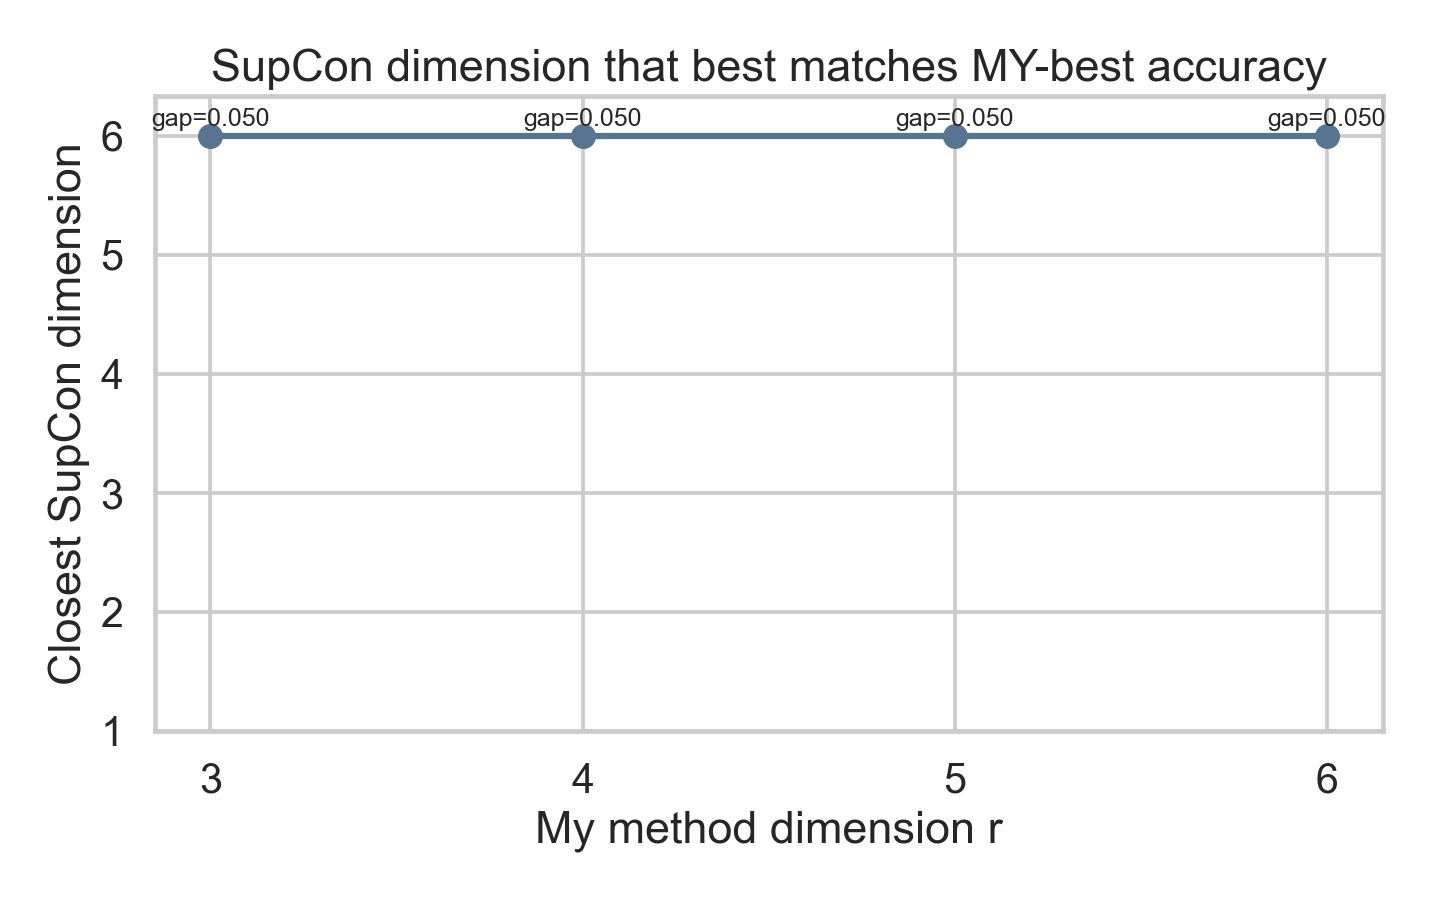
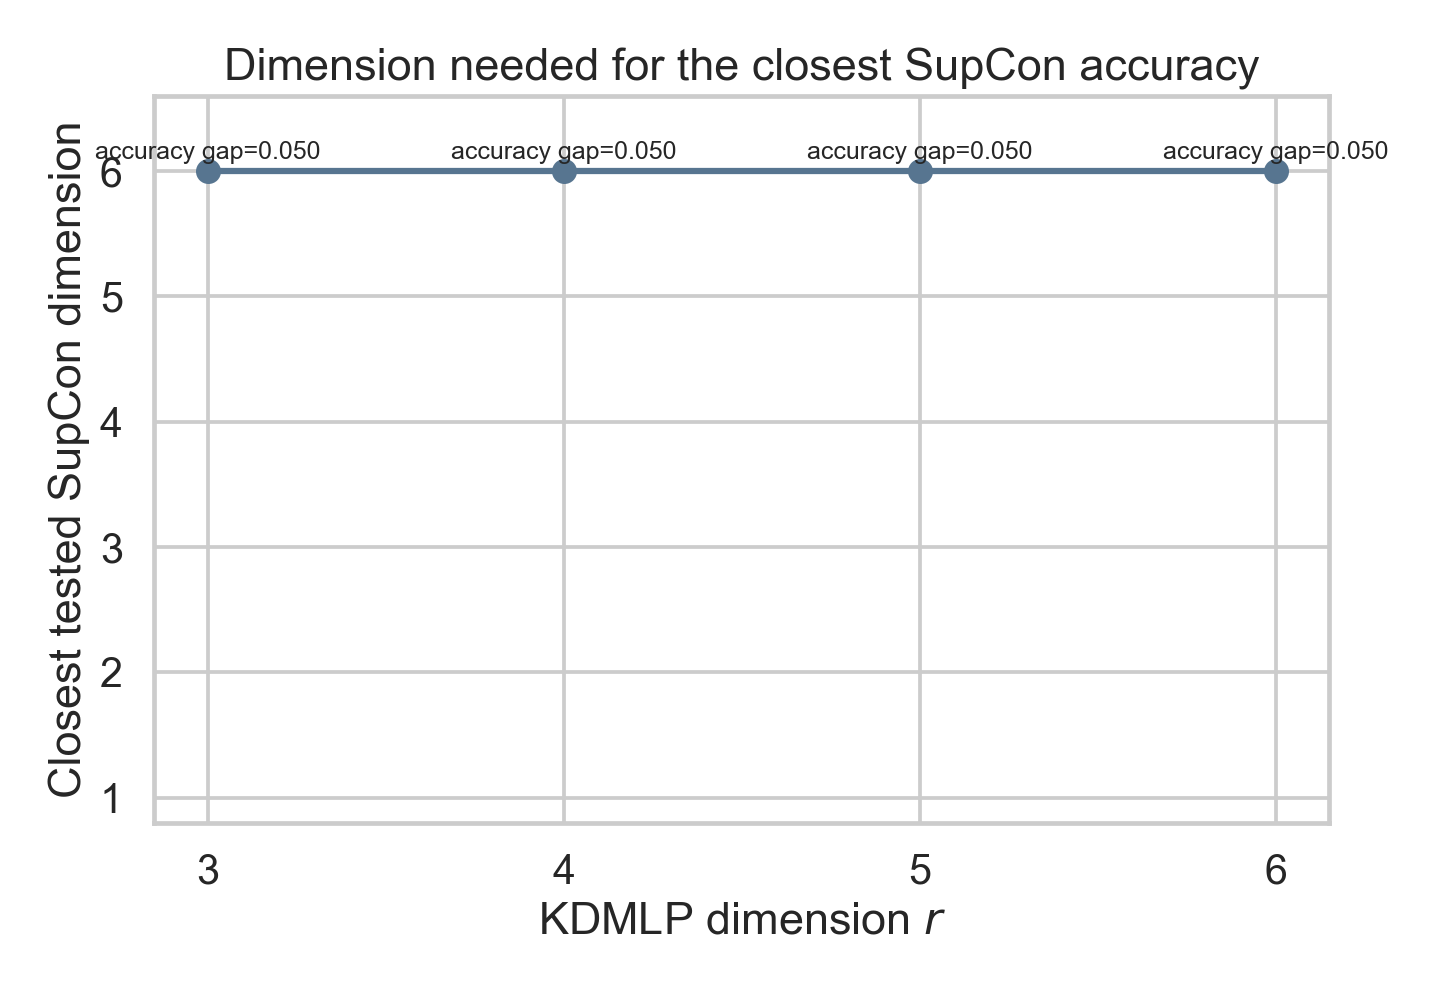
Document Gaussian and OpenML SupCon comparisons

diff --git a/simulations/supcon_openml_workspace/openml_supcon_vs_ours_same_r.py b/simulations/supcon_openml_workspace/openml_supcon_vs_ours_same_r.py
@@ -256,12 +256,15 @@ def run_openml_same_r():
         .mean()
         .sort_values("r")
     )
-    ax.plot(mean_curve["r"], mean_curve["my_best_acc"], marker="o", linewidth=2.5, color="#43aa8b", label="MY-best")
+    ax.plot(mean_curve["r"], mean_curve["my_best_acc"], marker="o", linewidth=2.5, color="#43aa8b", label="Best KDMLP")
     ax.plot(mean_curve["r"], mean_curve["supcon_acc"], marker="o", linewidth=2.5, color="#f94144", label="SupCon")
-    ax.plot(mean_curve["r"], mean_curve["kfda_acc"], marker="o", linewidth=2.5, linestyle="--", color="#577590", label="KFDA")
-    ax.set_xlabel("Dimension r")
-    ax.set_ylabel("Mean accuracy across OpenML datasets")
-    ax.set_title("OpenML same-r comparison (KDMLP vs SupCon vs KFDA)")
+    ax.plot(mean_curve["r"], mean_curve["kfda_acc"], marker="o", linewidth=2.5, linestyle="--", color="#577590", label="KFDA (rank 1)")
+    ax.set_xlabel("Reduced dimension r")
+    ax.set_ylabel("Mean test accuracy")
+    ax.set_title("OpenML mean accuracy across 13 datasets")
+    ax.set_xscale("symlog", linthresh=6)
+    ax.set_xticks(R_VALUES)
+    ax.get_xaxis().set_major_formatter(plt.ScalarFormatter())
     ax.legend()
     plt.tight_layout()
     fig.savefig(OUT / "openml_same_r_mean_curve.png", dpi=180)
@@ -273,12 +276,47 @@ def run_openml_same_r():
         var_name="method",
         value_name="acc",
     )
-    fig, ax = plt.subplots(figsize=(13, 7))
-    sns.barplot(data=plot32, x="dataset", y="acc", hue="method", ax=ax)
-    ax.set_title("OpenML: KDMLP vs SupCon vs KFDA at r=32 or 64")
-    ax.tick_params(axis="x", rotation=45)
+    plot32["method"] = plot32["method"].map(
+        {"my_best_acc": "Best KDMLP", "supcon_acc": "SupCon", "kfda_acc": "KFDA"}
+    )
+    fig, axes = plt.subplots(2, 1, figsize=(15, 12), sharey=True)
+    for ax, r in zip(axes, (32, 64)):
+        sub = plot32[plot32["r"] == r]
+        sns.barplot(data=sub, x="dataset", y="acc", hue="method", errorbar=None, ax=ax)
+        ax.set_title(f"OpenML comparison at r={r}")
+        ax.set_xlabel("")
+        ax.set_ylabel("Accuracy")
+        ax.tick_params(axis="x", rotation=40)
+        if ax is not axes[0] and ax.get_legend() is not None:
+            ax.get_legend().remove()
+    axes[0].legend(title=None, ncol=3, loc="lower right")
     plt.tight_layout()
     fig.savefig(OUT / "openml_dim32_64_barplot.png", dpi=180)
+    plt.close(fig)
+
+    datasets = list(df_compact["dataset"].drop_duplicates())
+    ncols = 3
+    nrows = int(np.ceil(len(datasets) / ncols))
+    fig, axes = plt.subplots(nrows, ncols, figsize=(16, 4.2 * nrows), sharex=True)
+    axes = np.asarray(axes).reshape(-1)
+    for ax, dataset in zip(axes, datasets):
+        sub = df_compact[df_compact["dataset"] == dataset].sort_values("r")
+        ax.plot(sub["r"], sub["my_best_acc"], marker="o", linewidth=2.0, color="#43aa8b", label="Best KDMLP")
+        ax.plot(sub["r"], sub["supcon_acc"], marker="o", linewidth=2.0, color="#f94144", label="SupCon")
+        ax.plot(sub["r"], sub["kfda_acc"], marker="o", linewidth=2.0, linestyle="--", color="#577590", label="KFDA (rank 1)")
+        ax.set_title(dataset)
+        ax.set_xlabel("Dimension r")
+        ax.set_ylabel("Test accuracy")
+        ax.set_xscale("symlog", linthresh=6)
+        ax.set_xticks(R_VALUES)
+        ax.get_xaxis().set_major_formatter(plt.ScalarFormatter())
+    for ax in axes[len(datasets):]:
+        ax.axis("off")
+    handles, labels = axes[0].get_legend_handles_labels()
+    fig.legend(handles, labels, loc="upper center", bbox_to_anchor=(0.5, 0.975), ncol=3, frameon=True)
+    fig.suptitle("OpenML same-r curves by dataset", y=0.995)
+    plt.tight_layout(rect=(0, 0, 1, 0.94))
+    fig.savefig(OUT / "openml_all_same_r_curves.png", dpi=180)
     plt.close(fig)
 
     print(df_dim32_64.to_string(index=False))

diff --git a/simulations/supcon_gaussian_workspace/gaussian_same_r_dimmatch.py b/simulations/supcon_gaussian_workspace/gaussian_same_r_dimmatch.py
@@ -14,11 +14,20 @@ from sklearn.decomposition import PCA
 
 
 ROOT = Path(__file__).resolve().parent.parent
+REPO_ROOT = ROOT.parent
+PROJECT_ROOT = REPO_ROOT.parent
 OUT = Path(__file__).resolve().parent / "outputs_dimmatch"
 OUT.mkdir(parents=True, exist_ok=True)
 
-sys.path.insert(0, str(ROOT / "supcon_comparison_workspace"))
-sys.path.insert(0, str(ROOT / "redo_projection_workspace"))
+for workspace_name in ("supcon_comparison_workspace", "redo_projection_workspace"):
+    for candidate in (
+        ROOT / workspace_name,
+        REPO_ROOT / workspace_name,
+        PROJECT_ROOT / workspace_name,
+    ):
+        if candidate.exists():
+            sys.path.insert(0, str(candidate))
+            break
 
 from compare_supcon_vs_ours import (  # type: ignore
     NOTEBOOK_PATH,
@@ -299,9 +308,17 @@ def run_case():
     for method, color in [("MY-large_mu", "#43aa8b"), ("MY-small_mu", "#f8961e"), ("SupCon", "#f94144")]:
         sub = acc_summary[acc_summary["method"] == method].sort_values("r")
         ax.plot(sub["r"], sub["acc_mean"], marker="o", linewidth=2.5, label=DISPLAY_METHOD[method], color=color)
+        ax.fill_between(
+            sub["r"],
+            sub["acc_mean"] - sub["acc_std"].fillna(0),
+            sub["acc_mean"] + sub["acc_std"].fillna(0),
+            color=color,
+            alpha=0.13,
+        )
     ax.set_xlabel("Reduced dimension r")
-    ax.set_ylabel("Accuracy")
-    ax.set_title("Same-r comparison: MY vs SupCon")
+    ax.set_ylabel("Test accuracy")
+    ax.set_title("Gaussian same-r comparison")
+    ax.set_xticks(range(1, 7))
     ax.legend()
     plt.tight_layout()
     fig.savefig(OUT / "same_r_accuracy_plot.png", dpi=180)
@@ -312,8 +329,9 @@ def run_case():
         sub = cov_summary[cov_summary["method"] == method].sort_values("r")
         ax.plot(sub["r"], sub["cov_gap_error"], marker="o", linewidth=2.5, label=DISPLAY_METHOD[method], color=color)
     ax.set_xlabel("Reduced dimension r")
-    ax.set_ylabel("Covariance-gap error")
-    ax.set_title("Approximate vs reference covariance-gap error")
+    ax.set_ylabel("Covariance-gap estimation error")
+    ax.set_title("Training versus reference covariance-gap estimates")
+    ax.set_xticks(range(1, 7))
     ax.legend()
     plt.tight_layout()
     fig.savefig(OUT / "same_r_covgap_error_plot.png", dpi=180)
@@ -323,9 +341,9 @@ def run_case():
     ax.plot(df_match["my_r"], df_match["closest_supcon_r"], marker="o", linewidth=2.5, color="#577590")
     for _, row in df_match.iterrows():
         ax.text(row["my_r"], row["closest_supcon_r"] + 0.08, f"gap={row['abs_acc_gap']:.3f}", ha="center", fontsize=10)
-    ax.set_xlabel("My method dimension r")
+    ax.set_xlabel("KDMLP dimension r")
     ax.set_ylabel("Closest SupCon dimension")
-    ax.set_title("SupCon dimension that best matches MY-best accuracy")
+    ax.set_title("Dimension needed for the closest SupCon accuracy")
     ax.set_xticks(df_match["my_r"])
     ax.set_yticks(range(1, 7))
     plt.tight_layout()

diff --git a/simulations/supcon_openml_workspace/README.md b/simulations/supcon_openml_workspace/README.md
@@ -1,19 +1,67 @@
-# OpenML SupCon vs Our Method
+# OpenML KDMLP vs SupCon and KFDA
 
-Main script:
+The same-dimension experiment is implemented in
+`openml_supcon_vs_ours_same_r.py`, with saved results in `outputs_same_r/`.
+It evaluates KDMLP, feature-level supervised contrastive learning (SupCon), and
+binary KFDA on 13 OpenML datasets.
 
-- `openml_supcon_vs_ours.py`
-- `openml_supcon_vs_ours_same_r.py`
+## Setup
 
-Outputs:
+The evaluated OpenML tasks are breast-cancer (13), breast-w (15), credit-g
+(31), segment (36), diabetes (37), sonar (40), splice (46), heart-statlog (53),
+hypothyroid (57), waveform-5000 (60), banana (1460), ringnorm (1496), and
+Titanic (40945). Multiclass datasets are converted to one-versus-rest binary
+tasks. Each dataset uses one stratified 60/40 train/test split and the common
+dimension grid `r in {1,2,3,4,5,6,32,64}`.
 
-- `outputs/openml_summary.csv`
-- `outputs/openml_ours_full.csv`
-- `outputs/openml_supcon_rows.csv`
-- `outputs/openml_margin_vs_supcon.png`
-- `outputs/openml_summary_barplot.png`
+KDMLP searches linear, RBF, and Laplacian Stage-1 kernels and its large- and
+small-mean regimes. Its Stage-2 SVM is selected by two-fold training validation.
+SupCon trains a feature-level MLP with a 128-dimensional encoder and a
+64-dimensional contrastive head; training-set PCA produces each final dimension
+`r`, followed by a cross-validated logistic probe. Binary KFDA has at most one
+discriminant direction, so the same rank-1 KFDA result is repeated across `r` as
+a reference.
+
+## Aggregate Results
+
+| `r` | Mean best KDMLP | Mean SupCon | Mean KFDA | KDMLP vs SupCon W/T/L | KDMLP vs KFDA W/T/L |
+| ---: | ---: | ---: | ---: | ---: | ---: |
+| 32 | 0.8780 | 0.8617 | 0.8368 | 6/3/4 | 7/1/5 |
+| 64 | 0.8716 | 0.8583 | 0.8368 | 10/0/3 | 8/1/4 |
+
+The average curve shows that KDMLP is strongest at `r=32` in this run. SupCon
+improves substantially between `r=1` and `r=6`, but its mean remains below the
+best KDMLP curve at every tested dimension except the near-tie at `r=6`.
+
+![OpenML mean same-r accuracy](outputs_same_r/openml_same_r_mean_curve.png)
+
+The separate high-dimensional panels avoid averaging the `r=32` and `r=64`
+results and make the dataset-level variation explicit.
+
+![OpenML r32 and r64 comparison](outputs_same_r/openml_dim32_64_barplot.png)
+
+The complete grid shows that increasing `r` is not uniformly beneficial. For
+example, banana improves steadily for KDMLP and sonar peaks at `r=32`, whereas
+hypothyroid is already strongest at `r=1` and ringnorm remains close to a
+ceiling across the grid.
+
+![OpenML curves for all datasets](outputs_same_r/openml_all_same_r_curves.png)
+
+## Interpretation Limit
+
+These outputs are an exploratory screening result, not a fully nested benchmark.
+There is only one train/test split, the current loader fits unsupervised numeric
+and categorical preprocessing before that split, and the plotted "best KDMLP"
+kernel/regime is selected retrospectively by test accuracy at each `r`. In
+addition, KDMLP/KFDA use an SVM while SupCon uses a logistic probe. A final
+confirmatory experiment should fit preprocessing on training data only, use
+repeated outer splits, select every model inside the training folds, and apply a
+common downstream classifier.
+
+## Main Outputs
+
+- `outputs_same_r/openml_same_r_compact.csv`
+- `outputs_same_r/openml_dim32_64_comparison.csv`
 - `outputs_same_r/openml_same_r_mean_curve.png`
 - `outputs_same_r/openml_dim32_64_barplot.png`
-- `outputs_same_r/openml_kfda_best_same_r.csv`
-
-This uses the same OpenML dataset list as the earlier OpenML comparison notebook and adds both a feature-level `SupCon` baseline and a same-`r` binary KFDA reference. In the same-`r` outputs, KFDA is repeated across the tested `r` grid because the binary KFDA stage-1 discriminant is intrinsically rank-1.
+- `outputs_same_r/openml_all_same_r_curves.png`

diff --git a/simulations/supcon_gaussian_workspace/README.md b/simulations/supcon_gaussian_workspace/README.md
@@ -1,18 +1,73 @@
-# Gaussian SupCon vs Our Method
+# Gaussian KDMLP vs SupCon
 
-Main script:
+The primary same-dimension experiment is implemented in
+`gaussian_same_r_dimmatch.py`; its saved results are in `outputs_dimmatch/`.
+The older `gaussian_supcon_vs_ours.py` and `gaussian_supcon_vs_ours_hd220.py`
+experiments are retained as supplementary checks.
 
-- `gaussian_supcon_vs_ours.py`
-- `gaussian_supcon_vs_ours_hd220.py`
-- `gaussian_same_r_dimmatch.py`
+## Setup
 
-Outputs:
+The two classes are Gaussian in `d=220` dimensions. For a random unit vector
+`v` and independent Gaussian matrices `A_0,A_1`, the population parameters are
 
-- `outputs/gaussian_summary.csv`
-- `outputs/gaussian_diagnostics.csv`
-- `outputs/gaussian_accuracy_comparison.png`
-- `outputs/gaussian_signal_vs_error.png`
-- `outputs_hd220/hd220_summary.csv`
-- `outputs_hd220/hd220_accuracy_bar.png`
+```text
+mu_0 = -0.1 v,                 Sigma_0 = A_0^T A_0 / d,
+mu_1 =  0.1 v,                 Sigma_1 = 2.5 A_1^T A_1 / d.
+```
 
-This compares `KFDA-1D`, `KDMLP large`, `KDMLP small`, and a feature-level `SupCon` baseline on the Gaussian synthetic regimes reused from the redo projection experiments.
+Thus, the population mean gap is `0.2`, whereas the input-space covariance gap
+is `||Sigma_1-Sigma_0||_F = 45.538`. Each of two repetitions uses 320 training
+samples, 1,200 test samples, and 2,400 independent reference samples per class.
+KDMLP and SupCon are compared at the same final dimensions `r=1,...,6`.
+
+SupCon trains a feature-level MLP with a 128-dimensional encoder and a
+64-dimensional projection head. Training-set PCA then reduces the encoder output
+to the requested final dimension `r`. The same logistic-probe procedure is used
+to evaluate the KDMLP and SupCon representations in this workspace.
+
+## Results
+
+| `r` | KDMLP large | KDMLP small | SupCon |
+| ---: | ---: | ---: | ---: |
+| 1 | 0.9992 | 0.5752 | 0.9471 |
+| 2 | 0.9992 | 0.5967 | 0.9479 |
+| 3 | 0.9992 | 0.6121 | 0.9475 |
+| 4 | 0.9992 | 0.6375 | 0.9469 |
+| 5 | 0.9990 | 0.6365 | 0.9483 |
+| 6 | 0.9990 | 0.6406 | 0.9492 |
+
+![Gaussian same-r accuracy](outputs_dimmatch/same_r_accuracy_plot.png)
+
+For a learned representation `Z`, the covariance-gap estimation error is
+
+```text
+||(C_1,tr-C_0,tr) - (C_1,ref-C_0,ref)||_F.
+```
+
+The reference covariances use the independent reference sample transformed by
+the representation learned from the training set. In a finite-dimensional
+reduced space, this Frobenius norm equals the corresponding Hilbert--Schmidt
+norm. Absolute errors should be compared across `r` within a method, not used to
+rank different methods, because their learned coordinates have different scales.
+
+![Gaussian covariance-gap error](outputs_dimmatch/same_r_covgap_error_plot.png)
+
+Within the tested SupCon grid, no dimension matches the approximately 0.999
+KDMLP-large accuracy: the closest SupCon result is at `r=6`, with a remaining
+accuracy gap of about 0.050.
+
+![Closest SupCon dimensions](outputs_dimmatch/supcon_matching_dimension_plot.png)
+
+The current KDMLP curves select the best Stage-1 kernel at each `r` using test
+accuracy. They should therefore be treated as an exploratory upper envelope; a
+confirmatory benchmark should select the kernel by nested training validation.
+
+## Main Outputs
+
+- `outputs_dimmatch/case_meta.csv`
+- `outputs_dimmatch/same_r_accuracy_summary.csv`
+- `outputs_dimmatch/same_r_covariance_errors.csv`
+- `outputs_dimmatch/supcon_matching_dimensions.csv`
+- `outputs_dimmatch/same_r_accuracy_plot.png`
+- `outputs_dimmatch/same_r_covgap_error_plot.png`
+- `outputs_dimmatch/supcon_matching_dimension_plot.png`

diff --git a/README.md b/README.md
@@ -94,6 +94,8 @@ Workspace: `simulations/supcon_gaussian_workspace`
 
 This comparison uses the dimension-matched protocol: after SupCon training, its representation is compressed to the same final dimension `r` as KDMLP. In this high-dimensional synthetic setting, `KDMLP large` stays near-perfect at very small `r`, while SupCon benefits only modestly from increasing `r`.
 
+The population dimension is `d=220`; the mean gap is `0.2`, while the input-space covariance gap is `45.538` in Frobenius norm. The table reports the mean over two independent repetitions.
+
 | Label | Final dimension `r` | `KDMLP large` | SupCon |
 | --- | ---: | ---: | ---: |
 | A | 1 | 0.9992 | 0.9471 |
@@ -102,11 +104,17 @@ This comparison uses the dimension-matched protocol: after SupCon training, its 
 
 ![Gaussian KDMLP vs SupCon](simulations/supcon_gaussian_workspace/outputs_dimmatch/same_r_accuracy_plot.png)
 
+The companion diagnostic compares the training and independent-reference estimates of the covariance gap after reduction. Its absolute scale is representation-dependent, so it is interpreted across `r` within each method rather than as a direct cross-method ranking.
+
+![Gaussian covariance-gap estimation error](simulations/supcon_gaussian_workspace/outputs_dimmatch/same_r_covgap_error_plot.png)
+
 ## 4. OpenML KDMLP vs SupCon (+ KFDA)
 
 Workspace: `simulations/supcon_openml_workspace`
 
 This workspace extends the same-`r` comparison to OpenML binary classification tasks. The strongest wins appear on datasets where a small number of KDMLP directions remains highly informative, while some datasets remain more sensitive to the chosen `r`. The updated same-`r` plots now include the binary KFDA reference across the tested `r` grid as well, repeated as a flat curve because binary KFDA contributes only one non-zero discriminant direction.
+
+Across the 13 tasks, the mean accuracies at `r=32` are `0.8780`, `0.8617`, and `0.8368` for best KDMLP, SupCon, and KFDA, respectively. These are exploratory one-split results; model selection at each `r` uses the observed test accuracy, so a nested repeated evaluation is still needed for confirmatory claims.
 
 | Label | Dataset | `r` | Best KDMLP | SupCon | KFDA |
 | --- | --- | ---: | ---: | ---: | ---: |
@@ -116,6 +124,8 @@ This workspace extends the same-`r` comparison to OpenML binary classification t
 | D | sonar | 32 | 0.905 | 0.857 | 0.655 |
 
 ![OpenML KDMLP vs SupCon vs KFDA](simulations/supcon_openml_workspace/outputs_same_r/openml_same_r_mean_curve.png)
+
+![OpenML same-r curves for all datasets](simulations/supcon_openml_workspace/outputs_same_r/openml_all_same_r_curves.png)
 
 ## 5. CIFAR-100 KDMLP vs SupCon (+ KFDA)
 
